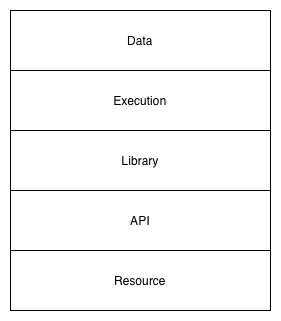
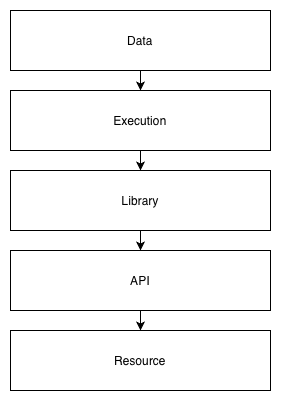
Update DELAR model article

diff --git a/content/articles/delar-model.md b/content/articles/delar-model.md
@@ -1,63 +1,235 @@
 ---
 title: The DELAR Model
-date: 2025-02-21
+date: 2026-03-28
 params:
   author: Joseph Wright
 ---
 
 ## Background
 
-The DELAR model is something I developed after years of doing IaC with various tools and finding myself reusing the same patterns. I wanted to explain how it works in a way that didn't involve digging through code. Since everything was patterned in layers, I thought what if I had a diagram similar to the OSI model for networking, but for IaC? I could use that as the starting point and it would give me a vocabulary to discuss it more easily.
+The DELAR model is something I developed after years of doing [IaC](https://en.wikipedia.org/wiki/Infrastructure_as_code) with various tools and finding myself reusing the same patterns. I wanted to explain how it works in a way that didn't involve digging through code. Since everything was patterned in layers, I thought, what if I had a diagram similar to the OSI model for networking, but for IaC? I could use that as the starting point and it would give me a vocabulary to discuss it more easily.
 
-I originally had some other names for it, one of them being Infrastructure as Data. A friend coined the term DELAR model after I presented it to his team at work. DELAR is an acronym for the layers of the model: Data, Execution, Library, API, and Resource.
+I originally had some other names for it, one of them being *Infrastructure as Data*. A friend coined the term DELAR model after I presented it to his team at work. DELAR is an acronym for the layers of the model: Data, Execution, Library, API, and Resource.
 
 ![DELAR Model](/images/delar-model.png)
 
 Why are the layers in that order? It's the order that data flows through the stack. Data at the top represents the resources that are created at the bottom. The data passes through all the layers, in one direction, to achieve that.
 
+I'll use Terraform as the primary example throughout. At the end, I'll show how it can apply to other tools, because the model is not tool-specific.
+
 ## Data Layer
 
-The data layer contains your configuration and is typically where you run your IaC tool. For Terraform, this is the [root module](https://developer.hashicorp.com/terraform/language/modules#hierarchy).
+The data layer contains your configuration and is typically the directory in which you run your IaC tool. For Terraform, this is the [root module](https://developer.hashicorp.com/terraform/language/modules#hierarchy).
 
-The data layer is not intended to be reusable. It represents actual resources, and, per the model, a change to the data should trigger a change to the resources. If the data were reused, multiple "stacks" or environments also would change simultaneously. Yes, it is possible to have a data layer with separate per-environment variable files and I have done so before, however I prefer the stricter method with no reuse allowed. Tools like [terragrunt](https://terragrunt.com) encourage making entire root modules reusable. I don't agree with that approach at all.
+It is usually a directory of files, sometimes in its own repo but isn't required to be; you can also have a repo with multiple data directories. In an ideal world, a change to the files would instantly and atomically change the resources it manages, but alas the world isn't ideal. So to get as close to it as possible, a CI/CD process will typically oversee this and trigger when it changes (what is called GitOps). This way the time between change and execution is as short as possible. The longer the data is out of sync with the resources, the greater the chance for confusion and errors.
+
+The data layer is not intended to be reusable. If the data were reused, multiple "stacks" or environments would change simultaneously when triggered, which is usually not desirable. It is possible to create the data layer with separate per-environment variable files and share the other files. Many clients do this, and I have done it before, however I prefer a stricter no-reuse policy as it is more bulletproof, though you may end up with more duplication across your configs. Tools like [terragrunt](https://terragrunt.com) encourage making root modules reusable and I disagree with that approach entirely. My solution for reuse works with plain Terraform and what I call [apex modules](#apex-modules).
+
+There are some exceptions to the rule of not parameterizing the data layer, but I don't want to spend too much time on it here. One scenario would be if you have common variables such as API tokens that are needed during a deployment. You can define variables to receive them, and your CI/CD system can pass them as [`TF_VAR_*`](https://developer.hashicorp.com/terraform/cli/config/environment-variables#tf_var_name) environment variables. However, in most cases you can achieve this in a better way, such as by storing the tokens in Vault or AWS Secrets Manager, and doing a lookup during the deployment.
+{.note}
 
 What goes into the data layer:
 
 * Variables: all of the configuration, including environment-specific data, AWS account information, etc.
-* Dependencies and their versions: all dependencies must be specified and are always pinned to the exact versions used.
-* Tool version: the exact version of the tool to be used, if supported by the tool.
+* Dependencies and their versions: all [library](#library-layer) dependencies must be specified and are always pinned to the exact versions used. If you want it to still work in six months, never fail to follow this.
+* Tool version: the exact version of the tool to be used, if supported by the tool. This is for the same reason as pinning the library dependencies. You don't want a bug or deprecation of a feature to cause it mysteriously stop working.
 
 What doesn't go here:
 
-* Bare Terraform resources
+* Bare resources
 * Arbitrary scripts
+
+Regarding pinned versions in Terraform, the file `.terraform.lock.hcl` will be created when you run `terraform init`, which will automatically pin the versions and hashes of providers that it downloads. The issue is that the hashes may differ depending on the OS and architecture you run it on. So I generally avoid using their lock files and just pin the versions within a `required_providers` block (see the [example](#example) below).
 
 ## Execution Layer
 
-The execution layer is the thinnest of all the layers. In its simplest form, it is you running `terraform apply`. In its more complex forms, it is a CI/CD pipeline that also runs, well, `terraform apply`. But in the CI/CD pipeline, it will typically have more stages to it. For example, you push code to the git repo and open a PR. The first stage of the pipeline triggers and runs `terraform plan` and `opa eval`. If it succeeds, you are allowed to merge the PR. Then the second stage runs `terraform apply`.
+The execution layer is the thinnest of all the layers. In its simplest form, it is just you running `terraform apply`. In its more complex forms, it may be a CI/CD pipeline that also runs, well, `terraform apply`. But in the CI/CD pipeline, it will typically have more stages to it. For example, you push code to the git repo and open a PR. The first stage of the pipeline triggers and runs `terraform plan` and `opa eval`. If it succeeds, you are allowed to merge the PR. Then the second stage runs `terraform apply`.
 
-The execution layer should never be *very* complex though. It should work the same way no matter what code you push. And it shouldn't do anything you can't do yourself to test and verify.
+Even at its most complex, the execution layer should never be *very* complex though. It should work the same way no matter what code you push. And it shouldn't do anything you can't do yourself to test and verify it works.
 
-When developing IaC, you need a sandbox environment in which to work. In that environment, *you* want to be the executor, not CI/CD. This way you can test that everything is working before it gets pushed to the repo. This is much faster than pushing to a repo, opening a PR, getting approvals, and praying it works. Once you've done it yourself and gone through the iterations, you can push to the repo. And given that your CI/CD pipeline runs the same commands you have been, it stands a much higher chance of working on the first try.
+You can think of the execution layer as the `main` function of your IaC "program". A well-formed `main` function usually doesn't do a lot. It takes inputs in the form of arguments or files, validates them, does some initialization, and passes the inputs on to library code which is parameterized to handle generic inputs.
 
-If you modify the execution layer, it should be because you need to make a change common to all of your infrastructure pipelines. For example, your CI/CD might pass some common variables to all stacks, such as a secret used to enable the deployment. Maybe you need to add another such common variable. In that case, go ahead and make the change. Don't change the execution layer to add workarounds for a special snowflake environment that works a little differently from everything else. This is when it starts to break down. I have never seen a case where such workarounds could not be done better in one of the other layers, usually the library layer.
+It is good to have a template for your CI/CD pipeline that works the same across any directory that contains your data layer, so your execution is totally uniform. Think of your execution layer like a tool such as git: git works on any repo. You don't have a special version of git for different repos, instead you structure the repo to work with git. Similarly, once your execution layer is defined, you structure all of your data layer the same way to work with it. This means you standardize how you call your tool. Different data directories don't take different arguments, the data *is* the argument.
+
+When developing IaC, you need a sandbox environment in which to work. In the sandbox, *you* want to be the execution layer, not CI/CD. This way you can test that everything is working before it gets pushed to the repo. It is much faster to modify some code and run the tool immediately than to modify the code, commit it, push it to a repo, open a PR, get an approval, wait for CI/CD to trigger, and pray that it works (the push and pray model). Once you've done it yourself and know that it works locally, you can push to the repo. And given that your CI/CD pipeline runs the same commands you have been, it stands a much higher chance of working there on the first try.
+
+The execution layer should rarely change. If you modify it, it should be because you need to make a change common to all of your infrastructure pipelines. For example, your CI/CD might pass some common variables to all stacks, and you need to add another. In that case, go ahead and make the change. Don't change the execution layer to add workarounds for snowflake environments that work a little differently from everything else. That is when things start to break down. I have never seen a case where such workarounds could not be done better in one of the other layers, usually the library layer.
+
+It can be useful to create a wrapper for your tool to use as the "authoritative" execution layer. It can take the 2-3 commands you normally run and turn it into 1. And it can ensure you have the right version of the tool. Say you've pinned the Terraform version in your root module, as you should, but different root modules may pin other versions. Your wrapper can parse the `required_version` and download it on the fly, then run your usual commands with it. Distribute the wrapper to your team and have everyone use it, as well as your CI/CD pipelines.
 
 ## Library Layer
 
-The library layer is the meat of the IaC stack.
+The library layer is the core of the IaC stack. Resources should be defined here, not in the data layer. Libraries, or modules, should be parameterized so they are reusable by multiple instances within the data layer.
+
+In Terraform, the library layer is made up of modules, specifically [child](https://developer.hashicorp.com/terraform/language/modules#hierarchy) modules. It is unfortunate that Terraform root modules are not a separate construct from modules altogether. This lack of distinction between root and child modules creates a lot of friction in the world of Terraform. Multiple products are even based on overcoming this flaw. Root and child modules *should* be treated as separate constructs, but it falls on you to enforce that discipline, since the tool does not.
+
+Libraries must take parameters for anything that could change between environments. Treat them like you are developing third party software. The data layer will take care of passing in your company or environment-specific parameters.
+
+For anything nontrivial, there will be multiple layers within the library layer itself. Libraries will need to use other libraries. But do not create a deeply nested hierarchy. As the [Zen of Python](https://peps.python.org/pep-0020/) says, flat is better than nested. Put your libraries or modules in a flat namespace, and pull them in as dependencies, rather than nesting them within each other. It is okay to have a module that contains a collection of related submodules, but keep it shallow, no more than one level deep. Deeply nested hierarchies result in messes that cannot be untangled, and they make reuse difficult.
 
 ## API Layer
 
+The API layer is the code that calls external APIs to create resources. In Terraform, this is the [provider](https://developer.hashicorp.com/terraform/plugin/framework/providers). Most of the time you probably don't touch this, but there are times when you might [develop your own provider](https://developer.hashicorp.com/terraform/plugin/framework). That is outside the scope of this document, so I will leave it at that.
+
 ## Resource Layer
 
-An example of the model using Terraform:
+The resource layer is the end goal: actual resources you create, cloud or otherwise. Earlier versions of the model split this into two halves, one for the APIs that are called and the other for the actual resources created. Later I merged them since, for IaC purposes, resources are generally represented by their APIs, and once you are working in this layer you aren't really doing IaC any more.
 
-**Data** - This is the Terraform "root" module. What most people think of when they write Terraform. I'm just a little stricter about what goes in here.
+## Apex Modules
 
-**Execution** - The execution of the tool. This can be you running `terraform apply` or your CI/CD process doing it. It should work the same either way, so you can iterate in a sandbox without pushing to a remote git server.
+Apex modules are Terraform child modules that wrap multiple dependent modules into a single "top level" module. You can then call only one module from your data layer, or root module. It is essentially a reusable pseudo-root module.
 
-**Library** - Reusable, versioned Terraform modules. Everything is parameterized, without references to your environments; all of that lives in the data layer. Most of your development time should be spent here.
+Why do we need them? Because root modules should not be reused, but we also want to follow the [DRY](https://en.wikipedia.org/wiki/Don%27t_repeat_yourself) principle as much as possible. Root modules that grow too large and call many other modules are at risk of becoming "more than data", and there can also be a lot of duplication. How do you know if your root module is "more than data"? An easy heuristic: if it uses `for_each`, it is.
 
-**API** - The APIs called by your modules. This can be AWS, Databricks, GCP, or even your own APIs. If you write a custom Terraform provider, you will be working in this layer.
+An example of an apex module might be a Kubernetes cluster management module. It might depend on a control plane module, multiple calls to a node group module, and maybe some additional configuration modules. Since your root module would grow quite large if you called all of them and were doing `for_each` over the node groups, you decide to create one single apex module that defines parameters and calls all the dependent modules. Now your root modules are simplified because they only need to call one module and pass parameters to it.
 
-**Resource** - The end result: actual cloud resources. The data layer is the code representation for what lives here.
+Note that as discussed in the library layer, the apex module doesn't embed a bunch of other modules, it depends on them and calls them.
+
+## Example
+
+The repository [https://github.com/cloudboss/terraform-aws-tailscale-subnet-router](https://github.com/cloudboss/terraform-aws-tailscale-subnet-router/tree/v0.2.1/example) has an example root module structured according to the DELAR model.
+
+It contains three files: `main.tf`, `state.tf`, and `vars.tf`. Notice how `vars.tf` just defines locals that are passed to the module in `main.tf`. There is no need for a `variables.tf` and `*.tfvars` because this is not meant to be reused. Another environment would use the same `main.tf` and modify only `state.tf` and `vars.tf`.
+
+The execution layer for this is to run the following commands with my AWS credentials in scope:
+
+```bash
+terraform init
+terraform plan -out plan.out
+terraform apply plan.out
+```
+
+I can incorporate those same commands into my CI/CD pipeline template and get correct results for any data layer I run it on.
+
+**main.tf**:
+
+```hcl
+terraform {
+  required_version = "=1.13.3"
+  required_providers {
+    archive = {
+      source  = "hashicorp/archive"
+      version = "=2.5.0"
+    }
+    aws = {
+      source  = "hashicorp/aws"
+      version = "=5.61.0"
+    }
+  }
+}
+
+provider "aws" {
+  region = local.aws_region
+}
+
+module "tailscale" {
+  source  = "cloudboss/tailscale-subnet-router/aws"
+  version = "0.2.0"
+
+  ami                = local.ami
+  autoscaling        = local.autoscaling
+  enable_nat_gateway = local.enable_nat_gateway
+  kms_key_id         = local.kms_key_id
+  ssh_key            = local.ssh_key
+  stack_key          = local.stack_key
+  subnet_ids         = local.subnet_ids
+  tailscale          = local.tailscale
+  vpc_id             = local.vpc_id
+}
+```
+
+**state.tf**:
+
+```hcl
+terraform {
+  backend "s3" {
+    bucket       = "terraform-o2ym9tux"
+    key          = "terraform/tail/terraform.tfstate"
+    region       = "us-east-1"
+    use_lockfile = true
+  }
+}
+```
+
+**vars.tf**:
+
+```hcl
+locals {
+  ami = {
+    name = "tailscale-v1.88.3"
+  }
+  autoscaling = {
+    instance_type = "t3a.nano"
+  }
+  aws_region = "us-east-1"
+  enable_nat_gateway = true
+  kms_key_id = "alias/credentials"
+  ssh_key = "easyto"
+  stack_key = "tail"
+  subnet_ids = [
+    "subnet-ce19ab6789a0f558b",
+    "subnet-770acebbb9c051efa",
+    "subnet-a9d33d85eef79e604",
+  ]
+  tailscale = {
+    authkey_ssm_path = "/tail/authkey"
+  }
+  vpc_id = "vpc-cfaf8fae40a4beef1"
+}
+```
+
+## Ansible DELAR Model
+
+The first tool I used where I followed this pattern very closely was Ansible.
+
+The [example directory](https://github.com/cloudboss/keights/tree/v1.25.2-1/stack/ansible/example) in my [keights](https://github.com/cloudboss/keights) repository is a data layer for a Kubernetes cluster that was built by Ansible. The [deploy](https://github.com/cloudboss/keights/blob/v1.25.2-1/stack/ansible/deploy) script is the execution layer wrapper.
+
+The Ansible version of the pattern works as follows.
+
+### Data
+
+The Ansible data layer is a directory containing:
+
+- `ansible.cfg`: Ansible configuration options.
+- `playbook.yml`: The playbook to run. The playbook contains only calls to roles (library layer), not modules directly, much like the Terraform root module only calls other modules, not resources directly. This may sound a little confusing since both Ansible and Terraform use the term *modules*, but they are different. Terraform modules are like Ansible roles, and Terraform resources are like Ansible modules.
+- `requirements.txt`: The pinned versions of *all* Python dependencies, including Ansible itself and all transitive dependencies. Python libraries used by modules go in here too.
+- `requirements.yml`: A requirements.yml to define library dependencies, or roles, that `ansible-galaxy` downloads and places into `roles_path` (defined in `ansible.cfg`, usually `.cache`).
+- `vars.yml`: The variables passed to `ansible-playbook`.
+
+### Execution
+
+The execution is done by `ansible-playbook`, but I use a [wrapper script](https://github.com/cloudboss/keights/blob/v1.25.2-1/stack/ansible/deploy) for it. The wrapper first creates a `.cache` directory and creates a Python virtualenv in it. Then it runs `.cache/virtualenv/bin/pip install -r requirements.txt`. Because Ansible and all its dependencies are defined in `requirements.txt`, now `ansible-playbook` and `ansible-galaxy` will be installed in the virtualenv. If the `requirements.yml` exists, the wrapper runs `ansible-galaxy` to install the roles under `.cache`. Then it runs `.cache/virtualenv/bin/ansible-playbook playbook.yml`, passing the `vars.yml`. Everything is bootstrapped by the wrapper. The only thing you need to start with is Python. My wrapper did not download a specific version of Python on the fly, but it could have been added to make it more complete. Additional external dependencies can be added within an Ansible role, and have them retrieved during the run.
+
+### Library
+
+The library layer is made up of Ansible [roles](https://docs.ansible.com/projects/ansible/latest/playbook_guide/playbooks_reuse_roles.html). Each role is parameterized, the same as with Terraform library modules. The parameters are normally passed as a dictionary with one top level key named after the role.
+
+Example:
+
+```
+  roles:
+  - role: keights-stack
+    keights_stack:    # Top level dictionary key
+      state: '{{ state }}'
+      cluster_name: '{{ cluster }}'
+      vpc_id: '{{ vpc_id }}'
+      ...
+```
+
+The purpose of the top level key is to provide a namespace for the role's variables so they can't conflict with globals, which is easy to do in Ansible. Within the role it looks for its variables within that dictionary.
+
+Most of the time I've published roles as plain tarballs in e.g. Artifactory or similar, and the archive file and URL have the version in it so the version is inherently pinned. It's not fancy at all, but it is supported by `requirements.yml` and works just about perfectly.
+
+### API
+
+The API layer is where Ansible [modules](https://docs.ansible.com/projects/ansible/latest/plugins/module.html) live. If needed, you can write a custom module and package it within a role, so the `ansible-galaxy` dependency mechanism works, and you can pin its version in `requirements.yml` and define the `library` path to point to it within `ansible.cfg`. Although the Python and `ansible-galaxy` packaging story has its warts, everything pretty much Just Worked when I have done this.
+
+### Resource
+
+This is exactly the same as any other resource layer, so there is nothing to add.
+
+## Conclusion
+
+For me this method works time and again, on day one and day two, and even months later. I see very low levels of failed deployments compared to other IaC structures that I've come in contact with.
+
+This model can be expanded to just about any other configuration tool, like CDK, Helm, or even your own custom tools.
